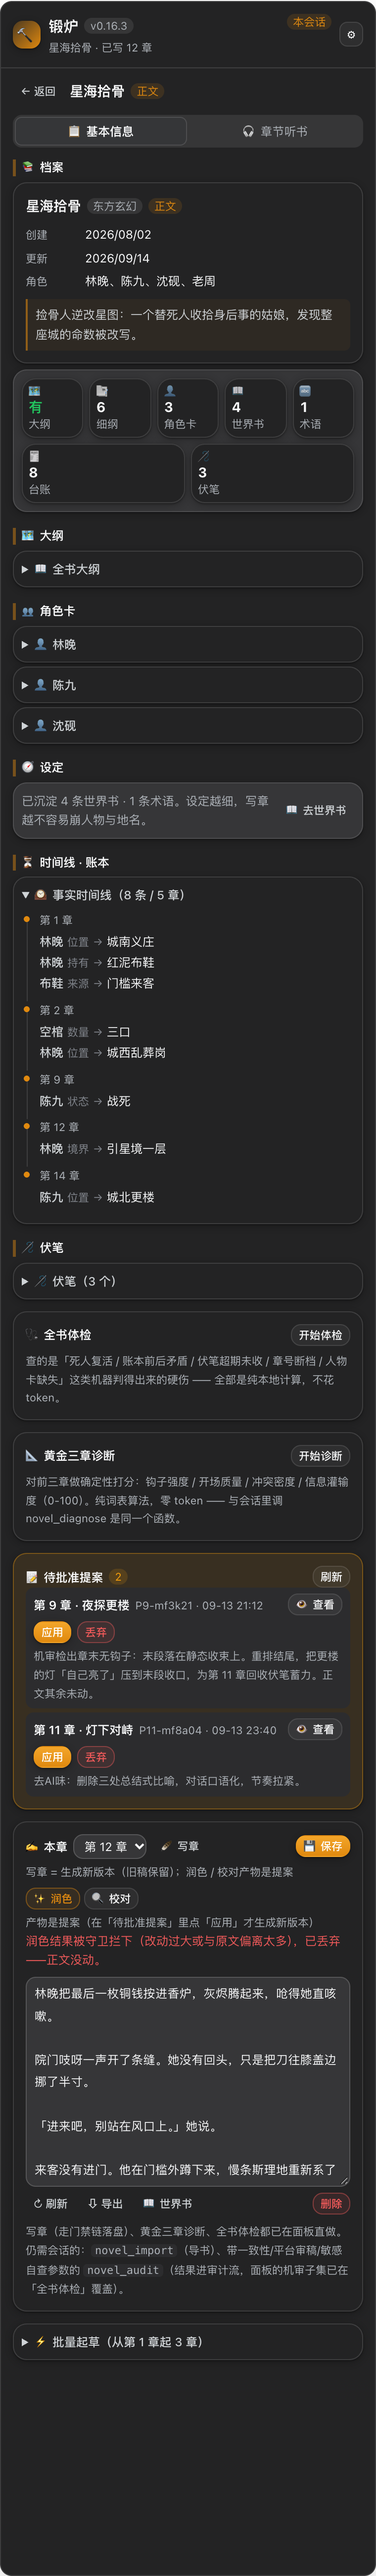
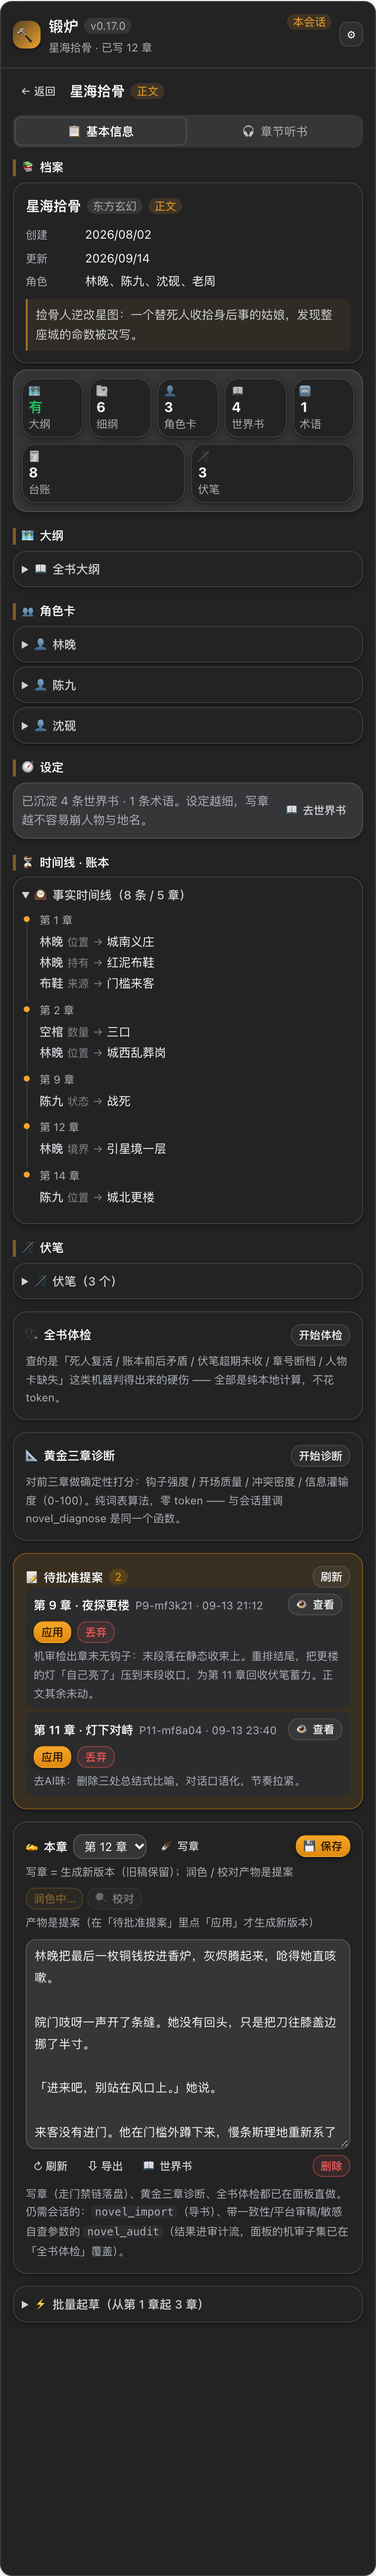
release: v0.17.1 — 英文版 README 入包（files 白名单加 README.en.md）+ 界面截图更新（dark/real 12 张重生成，preview-ui 同步微调）

Changed region(s): [[0.0605, 0.7163, 0.9382, 0.9343]]

diff --git a/src/client/index.js b/src/client/index.js
@@ -31,7 +31,7 @@ import { SettingsView } from './views/settings.js';
 
 // 版本号：必须与 package.json 的 version 一致。
 // build-client.mjs 会把它与 package.json 对账，不一致直接构建失败（防发行漂移）。
-const PLUGIN_VERSION = '0.17.0';
+const PLUGIN_VERSION = '0.17.1';
 
 // 供视图头部徽标读取 —— 让视图层不必反向 import 入口（避免循环依赖）。
 window.__NOVEL_FORGE_VERSION__ = PLUGIN_VERSION;

diff --git a/lib/client.js b/lib/client.js
@@ -4205,7 +4205,7 @@ function ForgePanel(props) {
 }
 
 // src/client/index.js
-var PLUGIN_VERSION = "0.17.0";
+var PLUGIN_VERSION = "0.17.1";
 window.__NOVEL_FORGE_VERSION__ = PLUGIN_VERSION;
 var inject = ["slots", "sidebarRightTabs", "sidebarRight", "sessions"];
 function apply(ctx) {

diff --git a/CHANGELOG.md b/CHANGELOG.md
@@ -1,5 +1,12 @@
 # Changelog
 
+## v0.17.1 (2026-10-13)
+
+- **英文版 README 入包**：`files` 白名单加 `README.en.md`——0.17.0 起仓库有两份 README
+  （中文 / English 互链），npm 包此前只带中文版。
+- **界面截图更新**：dark / real 两套共 12 张面板实渲染截图重新生成（`preview-ui.mjs`
+  同步微调）；README「界面一览」引用的就是这套图。
+
 ## v0.17.0 (2026-10-13)
 
 
